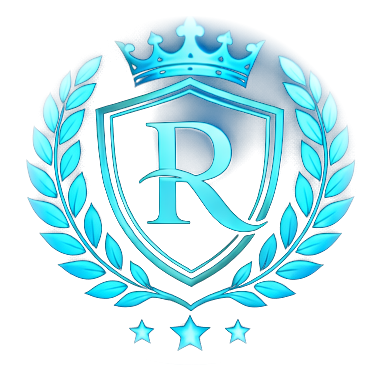
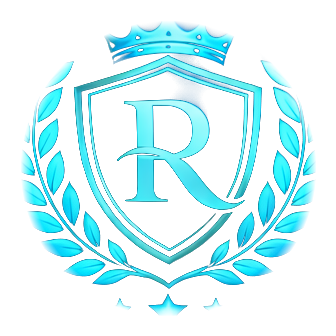
Fix watermark: remove glow ring, adjust position

diff --git a/index.html b/index.html
@@ -305,11 +305,11 @@
     <!-- Marca d'água -->
     <img src="images/emblema.png" alt="" aria-hidden="true" style="
       position: absolute;
-      width: 75%;
-      max-width: 580px;
-      top: -8%;
-      right: -10%;
-      opacity: 0.06;
+      width: 70%;
+      max-width: 520px;
+      top: -5%;
+      right: 5%;
+      opacity: 0.07;
       pointer-events: none;
       z-index: 0;
     ">
